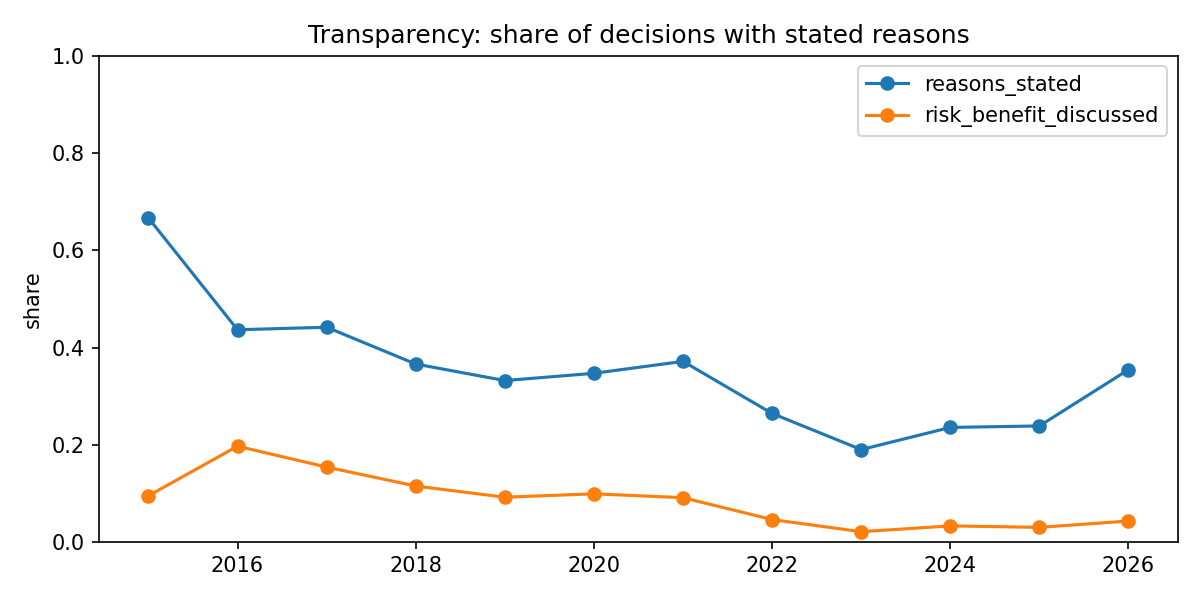
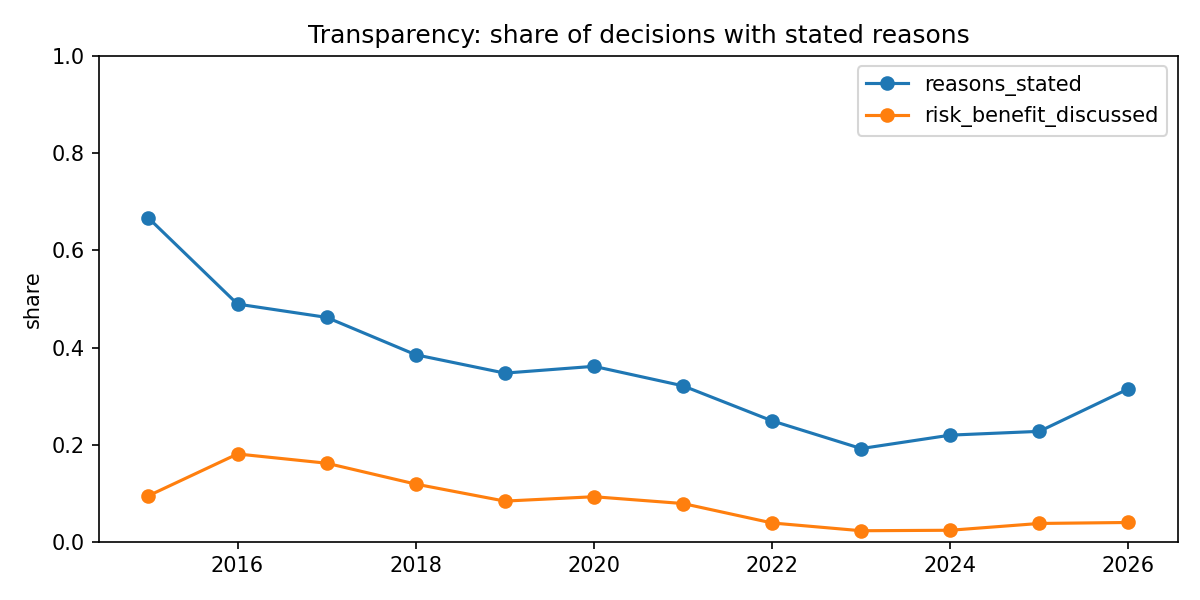
Full-corpus results; README with results, figures, labels and limitations

diff --git a/README.md b/README.md
@@ -8,8 +8,46 @@ of agenda items: the file number, drug, firm and the committee's recommendation.
 every PDF and splits it into agenda items. An LLM then extracts structured fields from each item,
 and the extraction is scored against hand-labelled examples.
 
-> Status: work in progress. The pipeline runs end to end. The hand-labelled evaluation set and
-> results are not published in this repository yet.
+The corpus: 1,864 PDFs, 14,121 agenda items and 13,866 committee decisions from 2015 to 2026.
+The write-up is in [`paper/regwatch_paper.md`](paper/regwatch_paper.md).
+
+## Results
+
+**Extraction quality.** `gemini-3.5-flash-lite` against 200 hand-labelled items
+([`results/extraction_eval.csv`](results/extraction_eval.csv)):
+
+| Field | Accuracy | Macro-F1 | Cohen's κ |
+|---|---|---|---|
+| `decision` | 0.88 | 0.87 | 0.84 |
+| `request_type` | 0.80 | 0.78 | 0.74 |
+| `local_ct_waiver_requested` | 0.99 | 0.97 | 0.93 |
+| `is_decision` | 0.99 | 0.83 | 0.66 |
+| `reasons_stated` | 0.81 | 0.80 | 0.60 |
+
+**What the decisions show** ([`results/stats.json`](results/stats.json), `results/decisions_by_*.csv`):
+
+- Committees state a reason far less often than they used to: about 47% of decisions in 2016–17,
+  about 21% in 2023–25. Explicit risk–benefit discussion fell from 18% (2016) to under 5% since 2022.
+- Requests to waive a local clinical trial have 7.5× the odds of rejection (1,276 requests,
+  Fisher exact p ≈ 3×10⁻¹²⁹).
+- The decision mix shifted across regulatory eras (χ² = 183, p ≈ 5×10⁻³¹): outright rejections fell
+  from 10.6% before the 2019 NDCT Rules to 5.3% from 2022, while deferrals rose from 10.2% to 15.9%.
+
+![Share of decisions with stated reasons, by year](results/transparency_by_year.png)
+
+**Predicting the decision from the request alone.** The input is only the text before the
+committee's verdict, so the label cannot leak. Test = later years; gold = the hand-labelled items
+([`results/predictor_eval.csv`](results/predictor_eval.csv),
+[`results/predictor_eval_bert.csv`](results/predictor_eval_bert.csv)):
+
+| Model | Test macro-F1 | Test κ | Gold macro-F1 | Gold κ |
+|---|---|---|---|---|
+| Majority class | 0.10 | 0.00 | 0.07 | 0.00 |
+| TF-IDF + gradient boosting | 0.49 | 0.37 | 0.48 | 0.33 |
+| Fine-tuned BiomedBERT | 0.53 | 0.39 | 0.53 | 0.38 |
+
+The request carries real signal about the outcome, but most of the decision depends on deliberation
+the minutes don't record.
 
 ## Pipeline
 
@@ -17,10 +55,13 @@ and the extraction is scored against hand-labelled examples.
 |---|---|---|---|
 | 1. Download | `download_sec.py` | CDSCO SEC page | `data/index.csv`, `data/pdfs/`, `data/text/`, `data/stats.csv` |
 | 2. Segment | `segment.py` | PDFs | `data/items.jsonl` (one agenda item per line) |
+| 2b. OCR | `ocr.py` | scanned PDFs | agenda items appended to `data/items.jsonl` |
 | 3. Extract | `extract.py` | agenda items | `data/extracted.jsonl` (structured fields per item) |
 | 4. Sample | `make_label_sample.py` | items | `labels/to_label.csv` (200 items for labelling) |
 | 5. Label sheet | `make_label_sheet.py` | sample | `labels/gold.xlsx` (dropdown-only labelling sheet) |
 | 6. Evaluate | `evaluate.py` | hand labels + extraction | `results/extraction_eval.csv` |
+| 7. Analyse | `analyze.py` | extraction + index | `results/decisions_by_*.csv`, `results/transparency_by_year.*`, `results/stats.json` |
+| 8. Predict | `predict.py`, `predictor_pubmedbert.ipynb` | request text + labels | `results/predictor_eval.csv`, `results/predictor_eval_bert.csv` |
 
 ### 1. Download (`download_sec.py`)
 - Parses the SEC listing page into an index of every PDF (title, release date, category, size, URL).
@@ -71,12 +112,37 @@ and the extraction is scored against hand-labelled examples.
   `request_type`, `local_ct_waiver_requested`, `decision` and `reasons_stated`. For each field it
   reports accuracy, macro-F1 and Cohen's kappa.
 
+### 2b. OCR (`ocr.py`)
+- Runs Tesseract on the 65 scanned PDFs that have no text layer and appends their agenda items to
+  `data/items.jsonl`. It only appends, so existing item keys and the hand labels never shift.
+
+### 7. Analyse (`analyze.py`)
+- Decision mix by year, committee, request type and regulatory era (pre-2019, the 2019 NDCT Rules,
+  COVID 2020–21, 2022 onward), with a χ² test across eras.
+- Share of decisions that state a reason or discuss risk–benefit, by year.
+- Odds of rejection when a local-trial waiver is requested (Fisher's exact test).
+
+### 8. Predict (`predict.py`, `predictor_pubmedbert.ipynb`)
+- Only the request part of each item (the text before the committee's verdict) is used as input.
+- Split by time: train on 2022 and earlier, test on 2023 onward. The hand-labelled items are held out
+  as a second test set, scored against the human labels.
+- `predict.py` trains the majority-class and TF-IDF + gradient-boosting baselines on CPU. The notebook
+  fine-tunes BiomedBERT on a free Colab GPU.
+
+### Labels (`labels/`)
+- `gold.xlsx`: the 200 hand-labelled items used for every score above.
+- `gold_v1.xlsx`: the first labelling pass. The labelling guide was then tightened (rules R1–R4) and
+  82 labels were changed; every change and its reason is in `relabel_log.csv`. Agreement between v1
+  and v2 is κ = 0.75 for both `request_type` and `decision`.
+- `claude_labels.xlsx`, `human_verified.xlsx`: an earlier LLM-annotated reference set and the
+  40-item human check of it, kept for the record. They are superseded by `gold.xlsx`.
+
 ## Setup
 
-Requires Python 3.
+Requires Python 3. OCR also needs Tesseract (`winget install UB-Mannheim.TesseractOCR` on Windows).
 
 ```bash
-pip install pymupdf requests openai scikit-learn pandas openpyxl
+pip install -r requirements.txt
 ```
 
 Create a `.env` file next to the scripts. It is git-ignored; never commit it.
@@ -93,21 +159,29 @@ LLM_API_KEY=your-key
 ```bash
 python download_sec.py        # 1. download and extract text
 python segment.py             # 2. split PDFs into agenda items
+python ocr.py                 # 2b. OCR the scanned PDFs (appends items)
 python extract.py [limit]     # 3. LLM extraction (resumable; re-run to retry failed batches)
 python make_label_sample.py   # 4. pick 200 items to label
 python make_label_sheet.py    # 5. build labels/gold.xlsx, then label it by hand
 python evaluate.py            # 6. score the extraction against the labels
+python analyze.py             # 7. trends and tests -> results/
+python predict.py             # 8. decision-prediction baselines (BiomedBERT: run the notebook on Colab)
 ```
 
 ## Limitations
-- Scanned PDFs (no text layer) are skipped; there is no OCR yet.
-- Segmentation depends on PyMuPDF's table detection. PDFs that yield no items are listed in
-  `data/segment_empty.txt`.
-- Agenda items shorter than 80 characters are not sent for extraction.
-- LLM extraction can be wrong. That is why every field the evaluation covers is measured against
-  hand labels before the dataset is used.
+- **LLM labels.** The trends and the prediction targets are LLM outputs. Their reliability is bounded
+  by the agreement with the hand labels (κ 0.60–0.93 depending on the field).
+- **Single annotator.** The 200 gold items were labelled by one person, and the v2 revision was done
+  with LLM assistance, which may bias the gold labels toward the model's behaviour. Mitigations:
+  written rules, a full change log, and both versions kept.
+- **OCR coverage.** 11 of the 65 scanned PDFs yielded no items, and OCR items lose their table structure.
+  Other PDFs that yield no items are listed in `data/segment_empty.txt`.
+- **Dates.** Years are release years, not meeting dates, so late-December meetings can shift by one year.
+- **Coverage.** 2015 is thin (21 decisions); agenda items under 80 characters are not extracted.
+- **Associations, not causes.** The era and waiver results describe what the minutes record, not why.
 
 ## Data
 All source documents are public minutes from the CDSCO website. The `data/` folder is git-ignored,
-so this repository contains code and labels only, not the downloaded PDFs. Downloads use a modest
+so this repository contains the code, labels, results and paper, not the downloaded PDFs or the
+extracted dataset. Downloads use a modest
 level of concurrency and identify themselves with a descriptive User-Agent.
